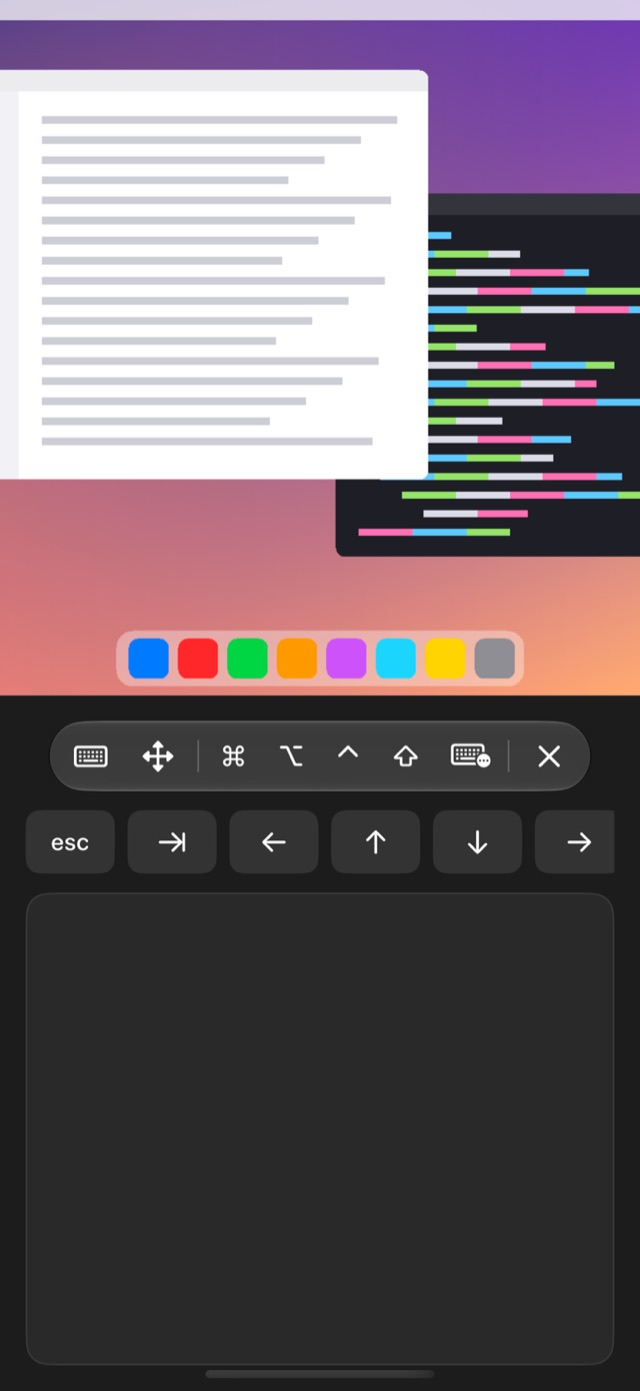
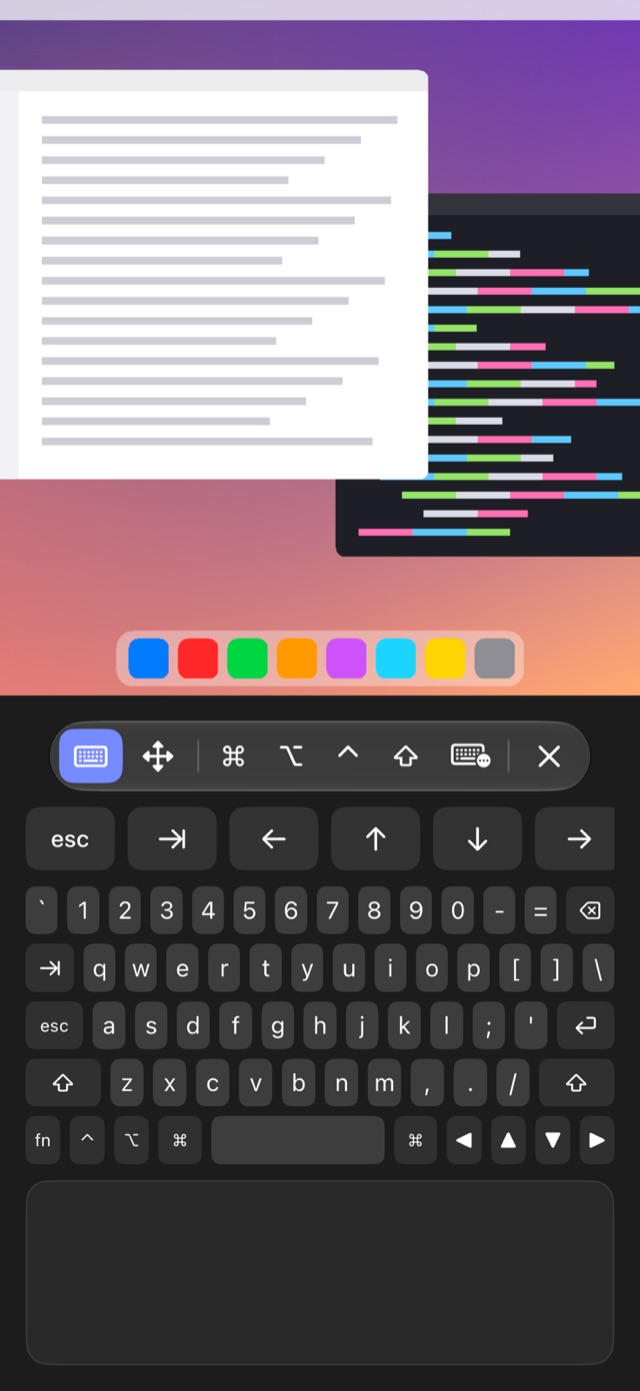
Remote, Laptop Mode, and a How it works page

diff --git a/index.html b/index.html
@@ -4,7 +4,7 @@
 <meta charset="utf-8">
 <meta name="viewport" content="width=device-width, initial-scale=1">
 <title>Vantage — Your Mac, on your iPad</title>
-<meta name="description" content="Vantage is a remote desktop for iPad and iPhone, made for Macs. Built-in Tailscale, a floating toolbar, a screen you simply touch, and High Performance video with sound.">
+<meta name="description" content="Vantage is a remote desktop for iPad and iPhone, made for Macs. Built-in Tailscale, a floating toolbar, a screen you simply touch, High Performance video with sound, and remotes for your keyboard, slides and games.">
 <meta property="og:title" content="Vantage — Your Mac, on your iPad">
 <meta property="og:description" content="A remote desktop for iPad and iPhone, made for Macs. Nothing to install on the Mac.">
 <meta property="og:image" content="img/session.jpg">
@@ -187,6 +187,8 @@ footer a { color: var(--muted); }
     <nav>
       <a class="hide-s" href="#features">Features</a>
       <a class="hide-s" href="#high-performance">High Performance</a>
+      <a class="hide-s" href="#remote">Remote</a>
+      <a href="how.html">How it works</a>
       <a href="support.html">Support</a>
     </nav>
   </div>
@@ -219,7 +221,7 @@ footer a { color: var(--muted); }
       <div class="card">
         <div class="icon"><svg viewBox="0 0 24 24" fill="none" stroke="currentColor" stroke-width="2" stroke-linecap="round" stroke-linejoin="round"><rect x="3" y="4" width="18" height="12" rx="2"/><path d="M8 20h8M12 16v4"/></svg></div>
         <h3>Nothing to install</h3>
-        <p>Uses macOS Screen Sharing as it comes. No helper app, no extra server, no account to create.</p>
+        <p>Uses macOS Screen Sharing as it comes. No extra server, no account to create, nothing to set up on the Mac but a switch.</p>
       </div>
       <div class="card">
         <div class="icon warm"><svg viewBox="0 0 24 24" fill="none" stroke="currentColor" stroke-width="2" stroke-linecap="round" stroke-linejoin="round"><circle cx="6" cy="6" r="2.2"/><circle cx="18" cy="6" r="2.2"/><circle cx="12" cy="18" r="2.2"/><path d="M8 7.2l2.8 8.6M16 7.2l-2.8 8.6M8.2 6h7.6"/></svg></div>
@@ -290,12 +292,53 @@ footer a { color: var(--muted); }
   </div>
 </section>
 
+<section id="remote">
+  <div class="wrap">
+    <div class="center">
+      <div class="kicker">Remote</div>
+      <h2>Your phone, as the controls.</h2>
+      <p class="sub">Sometimes you don't need to see the screen, just drive it. Remote connects to your Mac without streaming video, so it's quick to start and easy on battery and data.</p>
+    </div>
+    <div class="grid">
+      <div class="card">
+        <div class="icon"><svg viewBox="0 0 24 24" fill="none" stroke="currentColor" stroke-width="2" stroke-linecap="round" stroke-linejoin="round"><rect x="2" y="6" width="20" height="12" rx="2"/><path d="M6 10h.01M10 10h.01M14 10h.01M18 10h.01M7 14h10"/></svg></div>
+        <h3>Keyboard &amp; Mouse</h3>
+        <p>A big trackpad with tap to click, two-finger scroll and right-click, a full Mac keyboard, and dictation for typing. For the Mac across the room on the TV.</p>
+      </div>
+      <div class="card">
+        <div class="icon warm"><svg viewBox="0 0 24 24" fill="none" stroke="currentColor" stroke-width="2" stroke-linecap="round" stroke-linejoin="round"><rect x="3" y="4" width="18" height="12" rx="2"/><path d="M10 8l4 2-4 2z"/><path d="M8 20l4-4 4 4"/></svg></div>
+        <h3>Presentation</h3>
+        <p>Next and previous as big as your palm, start and end for Keynote, PowerPoint and Google Slides, a black screen, a timer, and a laser pointer you aim by tilting your phone.</p>
+      </div>
+      <div class="card">
+        <div class="icon cool"><svg viewBox="0 0 24 24" fill="none" stroke="currentColor" stroke-width="2" stroke-linecap="round" stroke-linejoin="round"><path d="M6 9h12a4 4 0 014 4v1a3 3 0 01-5.2 2L15 14H9l-1.8 2A3 3 0 012 14v-1a4 4 0 014-4z"/><path d="M7 12v2M6 13h2M16 12h.01M18 13h.01"/></svg></div>
+        <h3>Controller</h3>
+        <p>An on-screen gamepad, or the Bluetooth controller you already own, with every button mapped to the keys your game wants.</p>
+      </div>
+    </div>
+    <div class="phones">
+      <figure>
+        <div class="phone"><img src="img/remote-keyboard.jpg" width="640" height="1391" loading="lazy" alt="The Keyboard and Mouse remote: a trackpad above a Mac keyboard"></div>
+        <figcaption>Keyboard &amp; Mouse</figcaption>
+      </figure>
+      <figure>
+        <div class="phone"><img src="img/remote-presentation.jpg" width="640" height="1391" loading="lazy" alt="The Presentation remote: big Next and Previous buttons, Start, End, Black, a timer and a laser button"></div>
+        <figcaption>Presentation</figcaption>
+      </figure>
+      <figure>
+        <div class="phone"><img src="img/remote-controller.jpg" width="640" height="1391" loading="lazy" alt="The Controller remote: an on-screen gamepad"></div>
+        <figcaption>Controller</figcaption>
+      </figure>
+    </div>
+  </div>
+</section>
+
 <section>
   <div class="wrap">
     <div class="center">
       <div class="kicker">iPhone, too</div>
       <h2>Fits the screen you have.</h2>
-      <p class="sub">On iPhone the desktop starts zoomed to a size you can read. Half-fold a foldable and the bottom becomes a keyboard row and trackpad.</p>
+      <p class="sub">On iPhone the desktop starts zoomed to a size you can read. On iPhone Duo, Laptop Mode turns the bottom half into a Mac keyboard and trackpad, with your Mac shaped to the screen above the hinge.</p>
     </div>
     <div class="phones">
       <figure>
@@ -307,8 +350,8 @@ footer a { color: var(--muted); }
         <figcaption><b>Zoomed to read</b>Pinch out for the whole desktop.</figcaption>
       </figure>
       <figure>
-        <div class="phone"><img src="img/tabletop.jpg" width="640" height="1391" loading="lazy" alt="A half-folded phone: the desktop above, toolbar, keys and a trackpad below"></div>
-        <figcaption><b>Tabletop</b>A little laptop on a foldable.</figcaption>
+        <div class="phone"><img src="img/tabletop.jpg" width="640" height="1391" loading="lazy" alt="Laptop Mode on iPhone Duo: the Mac above the hinge, a Mac keyboard and trackpad below"></div>
+        <figcaption><b>Laptop Mode</b>A little MacBook on iPhone Duo.</figcaption>
       </figure>
     </div>
   </div>
@@ -336,7 +379,7 @@ footer a { color: var(--muted); }
       <p>Vantage is in a small private beta on TestFlight. Want in? Send a note and you'll get an invite.</p>
       <div class="ctas">
         <a class="btn primary" href="mailto:tajshaik24@gmail.com?subject=Vantage%20beta">Ask for an invite</a>
-        <a class="btn ghost" href="support.html">Help &amp; setup</a>
+        <a class="btn ghost" href="how.html">How it works</a>
       </div>
     </div>
     <p class="reqs">Requires iPadOS or iOS 18.1 or later and a Mac with Screen Sharing turned on. High Performance needs an M-series iPad and an Apple silicon Mac with macOS 14 or later.</p>
@@ -346,7 +389,7 @@ footer a { color: var(--muted); }
 <footer>
   <div class="wrap">
     <span>© 2026 Taj Shaik</span>
-    <nav><a href="support.html">Support</a><a href="privacy.html">Privacy</a></nav>
+    <nav><a href="how.html">How it works</a><a href="support.html">Support</a><a href="privacy.html">Privacy</a></nav>
   </div>
 </footer>
 

diff --git a/how.html b/how.html
@@ -1,0 +1,94 @@
+<!doctype html>
+<html lang="en">
+<head>
+<meta charset="utf-8">
+<meta name="viewport" content="width=device-width, initial-scale=1">
+<title>How Vantage Works</title>
+<meta name="description" content="How Vantage connects to your Mac: macOS Screen Sharing, built-in Tailscale, High Performance video, Remote controls, Laptop Mode and the optional Vantage Helper.">
+<link rel="icon" href="img/icon-256.png">
+<link rel="stylesheet" href="style.css">
+<style>
+.flow { display: flex; align-items: center; gap: 10px; flex-wrap: wrap; margin: 18px 0 8px; font-size: 15px; }
+.flow span { background: var(--bg); border-radius: 10px; padding: 6px 12px; }
+.flow i { color: var(--muted); font-style: normal; }
+.tag { display: inline-block; font-size: 12px; font-weight: 600; letter-spacing: .04em; text-transform: uppercase;
+       color: var(--accent); margin-left: 6px; vertical-align: 2px; }
+</style>
+</head>
+<body>
+<main>
+<header><img src="icon.png" alt=""><div><h1>How Vantage works</h1><div class="muted">The short version, for the curious</div></div></header>
+
+<section class="card">
+<h2>It talks to the Screen Sharing already on your Mac</h2>
+<p>Every Mac has Screen Sharing built in. Vantage speaks the same protocol Apple's own Screen Sharing app uses, so there's
+nothing to install on the Mac: turn Screen Sharing on, sign in with your Mac account, and you're in.</p>
+<div class="flow"><span>iPad or iPhone</span><i>→</i><span>your network or Tailscale</span><i>→</i><span>macOS Screen Sharing</span></div>
+<ul>
+<li><b>Sign-in</b> uses the Mac's own secure login, and the session is encrypted the way Screen Sharing encrypts it.</li>
+<li><b>The picture</b> arrives in Apple's Screen Sharing format, pushed by the Mac as it changes. The pointer is drawn on your
+device, so it moves the moment your finger does.</li>
+<li><b>Linux and Windows</b> computers running a VNC server work too, with secure sign-in.</li>
+</ul>
+</section>
+
+<section class="card">
+<h2>Anywhere, with Tailscale built in</h2>
+<p>Vantage runs its own Tailscale connection inside the app. Sign in once in Settings and your Macs on your tailnet show up,
+reachable from any network, without a separate VPN app on your iPad or iPhone. Each saved computer is either Local or
+Tailscale, so you always know which way you're connected.</p>
+</section>
+
+<section class="card">
+<h2>Standard and High Performance</h2>
+<ul>
+<li><b>Standard</b> works everywhere and keeps your typing and clicks first: the picture can sharpen a moment later, but input
+never waits behind it.</li>
+<li><b>High Performance</b> (M-series iPad, Apple silicon Mac) asks the Mac for the same stream Apple's High Performance mode
+uses: HEVC video at 60 frames a second with the Mac's sound, encrypted end to end. It needs a fast network; if the
+connection can't keep up, Vantage switches to Standard by itself and tells you.</li>
+</ul>
+</section>
+
+<section class="card">
+<h2>Remote: controls without the screen</h2>
+<p>Keyboard &amp; Mouse, Presentation and Controller connect to your Mac the same way, but ask for only one picture (to learn
+the screen size and where the pointer is) and then stop the video. What's left is your input, which is tiny, so
+a remote starts fast and barely touches your battery or data.</p>
+<ul>
+<li><b>Keyboard &amp; Mouse</b>: a trackpad, a Mac keyboard and dictation.</li>
+<li><b>Presentation</b>: slide controls for Keynote, PowerPoint and Google Slides, and a laser pointer you aim by tilting your
+phone. In PowerPoint it switches on PowerPoint's own laser.</li>
+<li><b>Controller</b>: on-screen or Bluetooth, with each button sending the key you choose.</li>
+</ul>
+</section>
+
+<section class="card">
+<h2>Laptop Mode on iPhone Duo</h2>
+<p>Half-open your iPhone Duo with the hinge across, like a laptop, and choose <b>Laptop Mode</b>. Your Mac goes above the hinge,
+shaped to fit it, and a Mac keyboard and trackpad go below. Close the phone and the session waits for you.</p>
+</section>
+
+<section class="card">
+<h2>The Vantage Helper <span class="tag">Coming soon</span></h2>
+<p>Everything above works with Screen Sharing alone. The Vantage Helper is a small, optional menu-bar app for your Mac that
+adds what Screen Sharing can't carry, starting with <b>native multi-finger touch</b>: your fingers reach the Mac as a real
+touchscreen, the way the new touch MacBook Pro works. It's waiting on macOS 27.3.</p>
+<ul>
+<li><b>Pairing</b>: your device and your Mac each show a six-digit code, and you approve on both. The Mac only listens for
+pairing for two minutes after you ask it to.</li>
+<li><b>Every connection</b> after that proves who's on each end and is encrypted, so nobody else on the network can send
+your Mac input or read what's sent.</li>
+</ul>
+</section>
+
+<section class="card">
+<h2>Private by design</h2>
+<p>Vantage connects straight to your own computers. Passwords stay in your device's keychain. There are no accounts, ads,
+analytics or tracking. See the <a href="privacy.html">privacy policy</a>.</p>
+</section>
+
+<nav><a href="./">Vantage</a> · <a href="support.html">Support</a> · <a href="privacy.html">Privacy Policy</a></nav>
+</main>
+</body>
+</html>

diff --git a/support.html b/support.html
@@ -44,7 +44,7 @@ allow only some users, make sure your account is included.</li>
 </ul>
 </section>
 
-<nav><a href="./">Vantage</a> · <a href="privacy.html">Privacy Policy</a></nav>
+<nav><a href="./">Vantage</a> · <a href="how.html">How it works</a> · <a href="privacy.html">Privacy Policy</a></nav>
 </main>
 </body>
 </html>
